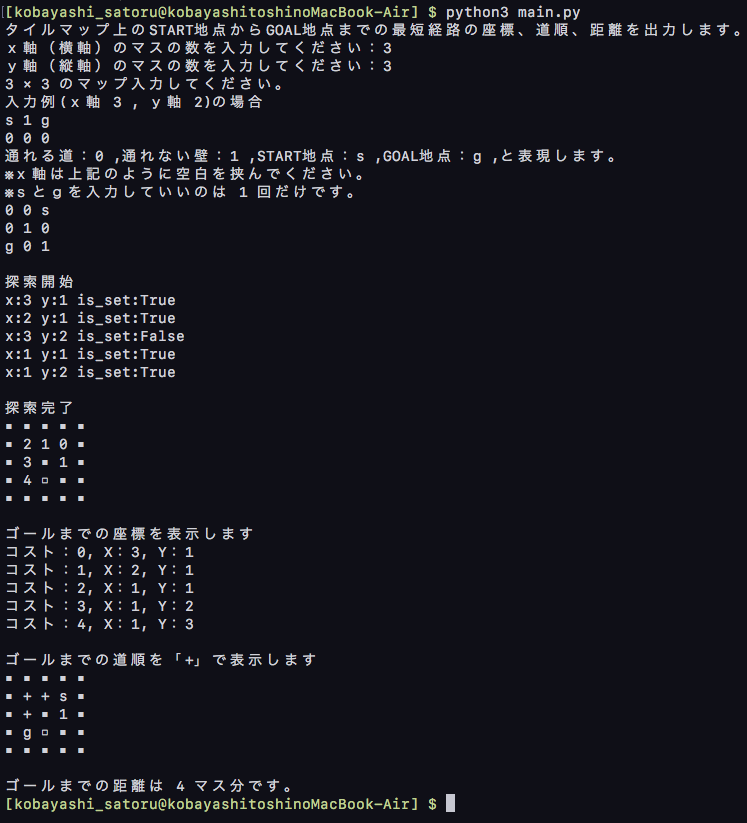
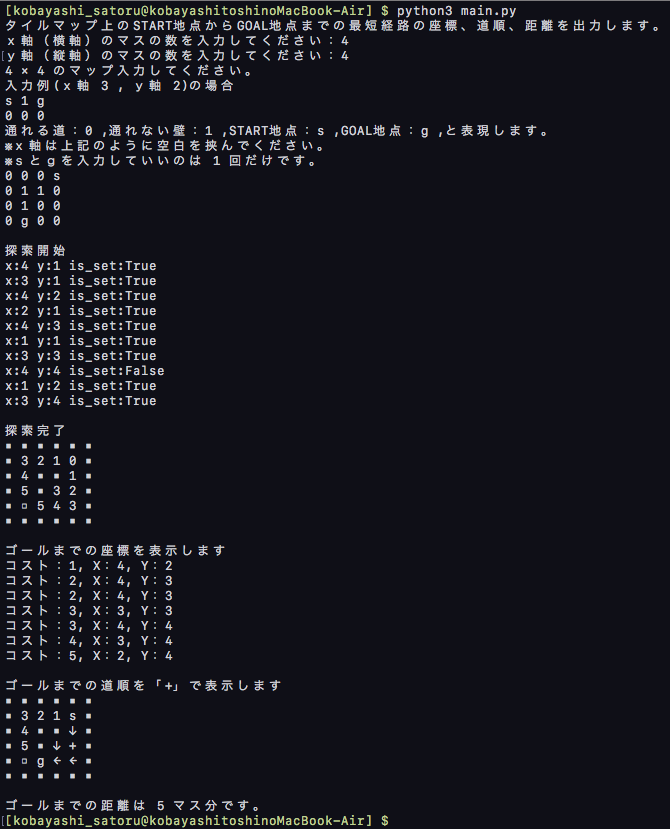
道順を矢印で表示

Changed region(s): [[0.0, 0.0, 0.9851, 1.0]]

diff --git a/main.py b/main.py
@@ -136,18 +136,35 @@ def directions_to_goal(map_list, goal_y, goal_x):
         directions_to_goal_list.update({i: []})
         for j in range(len(map_list)):  # y列
             for k in range(len(map_list[j])):  # x行
-                if(map_list[j][k] == str(i) or map_list[j][k] == i):
+                if(map_list[j][k] == "0"):
+                    map_list[j][k] = "s"
+                elif(map_list[j][k] == str(i) or map_list[j][k] == i):
                     # print("directions_to_goal_list["+str(i+1)+"]")
                     # print(directions_to_goal_list[i+1])
-                    if([k, j-1] in directions_to_goal_list[i+1] or  # 上
-                       [k, j+1] in directions_to_goal_list[i+1] or  # 下
-                       [k+1, j] in directions_to_goal_list[i+1] or  # 右
-                       [k-1, j] in directions_to_goal_list[i+1]):  # 左
+                    if([k, j-1] in directions_to_goal_list[i+1]):  # 上
                         directions_to_goal_list[i].append([k, j])
-                        if("0" == map_list[j][k]):
-                            map_list[j][k] = "s"
-                        else:
+                        if(map_list[j][k] in ["↑", "↓", "→", "←"]):
                             map_list[j][k] = "+"
+                        else:
+                            map_list[j][k] = "↑"
+                    if([k, j+1] in directions_to_goal_list[i+1]):  # 下
+                        directions_to_goal_list[i].append([k, j])
+                        if(map_list[j][k] in ["↑", "↓", "→", "←"]):
+                            map_list[j][k] = "+"
+                        else:
+                            map_list[j][k] = "↓"
+                    if([k+1, j] in directions_to_goal_list[i+1]):  # 右
+                        directions_to_goal_list[i].append([k, j])
+                        if(map_list[j][k] in ["↑", "↓", "→", "←"]):
+                            map_list[j][k] = "+"
+                        else:
+                            map_list[j][k] = "→"
+                    if([k-1, j] in directions_to_goal_list[i+1]):  # 左
+                        directions_to_goal_list[i].append([k, j])
+                        if(map_list[j][k] in ["↑", "↓", "→", "←"]):
+                            map_list[j][k] = "+"
+                        else:
+                            map_list[j][k] = "←"
     map_list[goal_y][goal_x] = "g"
     return directions_to_goal_list
 
@@ -187,7 +204,7 @@ def main():
                                                      goal_y, goal_x)
         print("\nゴールまでの座標を表示します")
         directions_show(directions_to_goal_list)
-        print("\nゴールまでの道順を「+」で表示します")
+        print("\nゴールまでの道順を矢印で表示します")
         map_show(map_list)
         print("\nゴールまでの距離は " + str(cost_until_a_goal) + " マス分です。")
 
